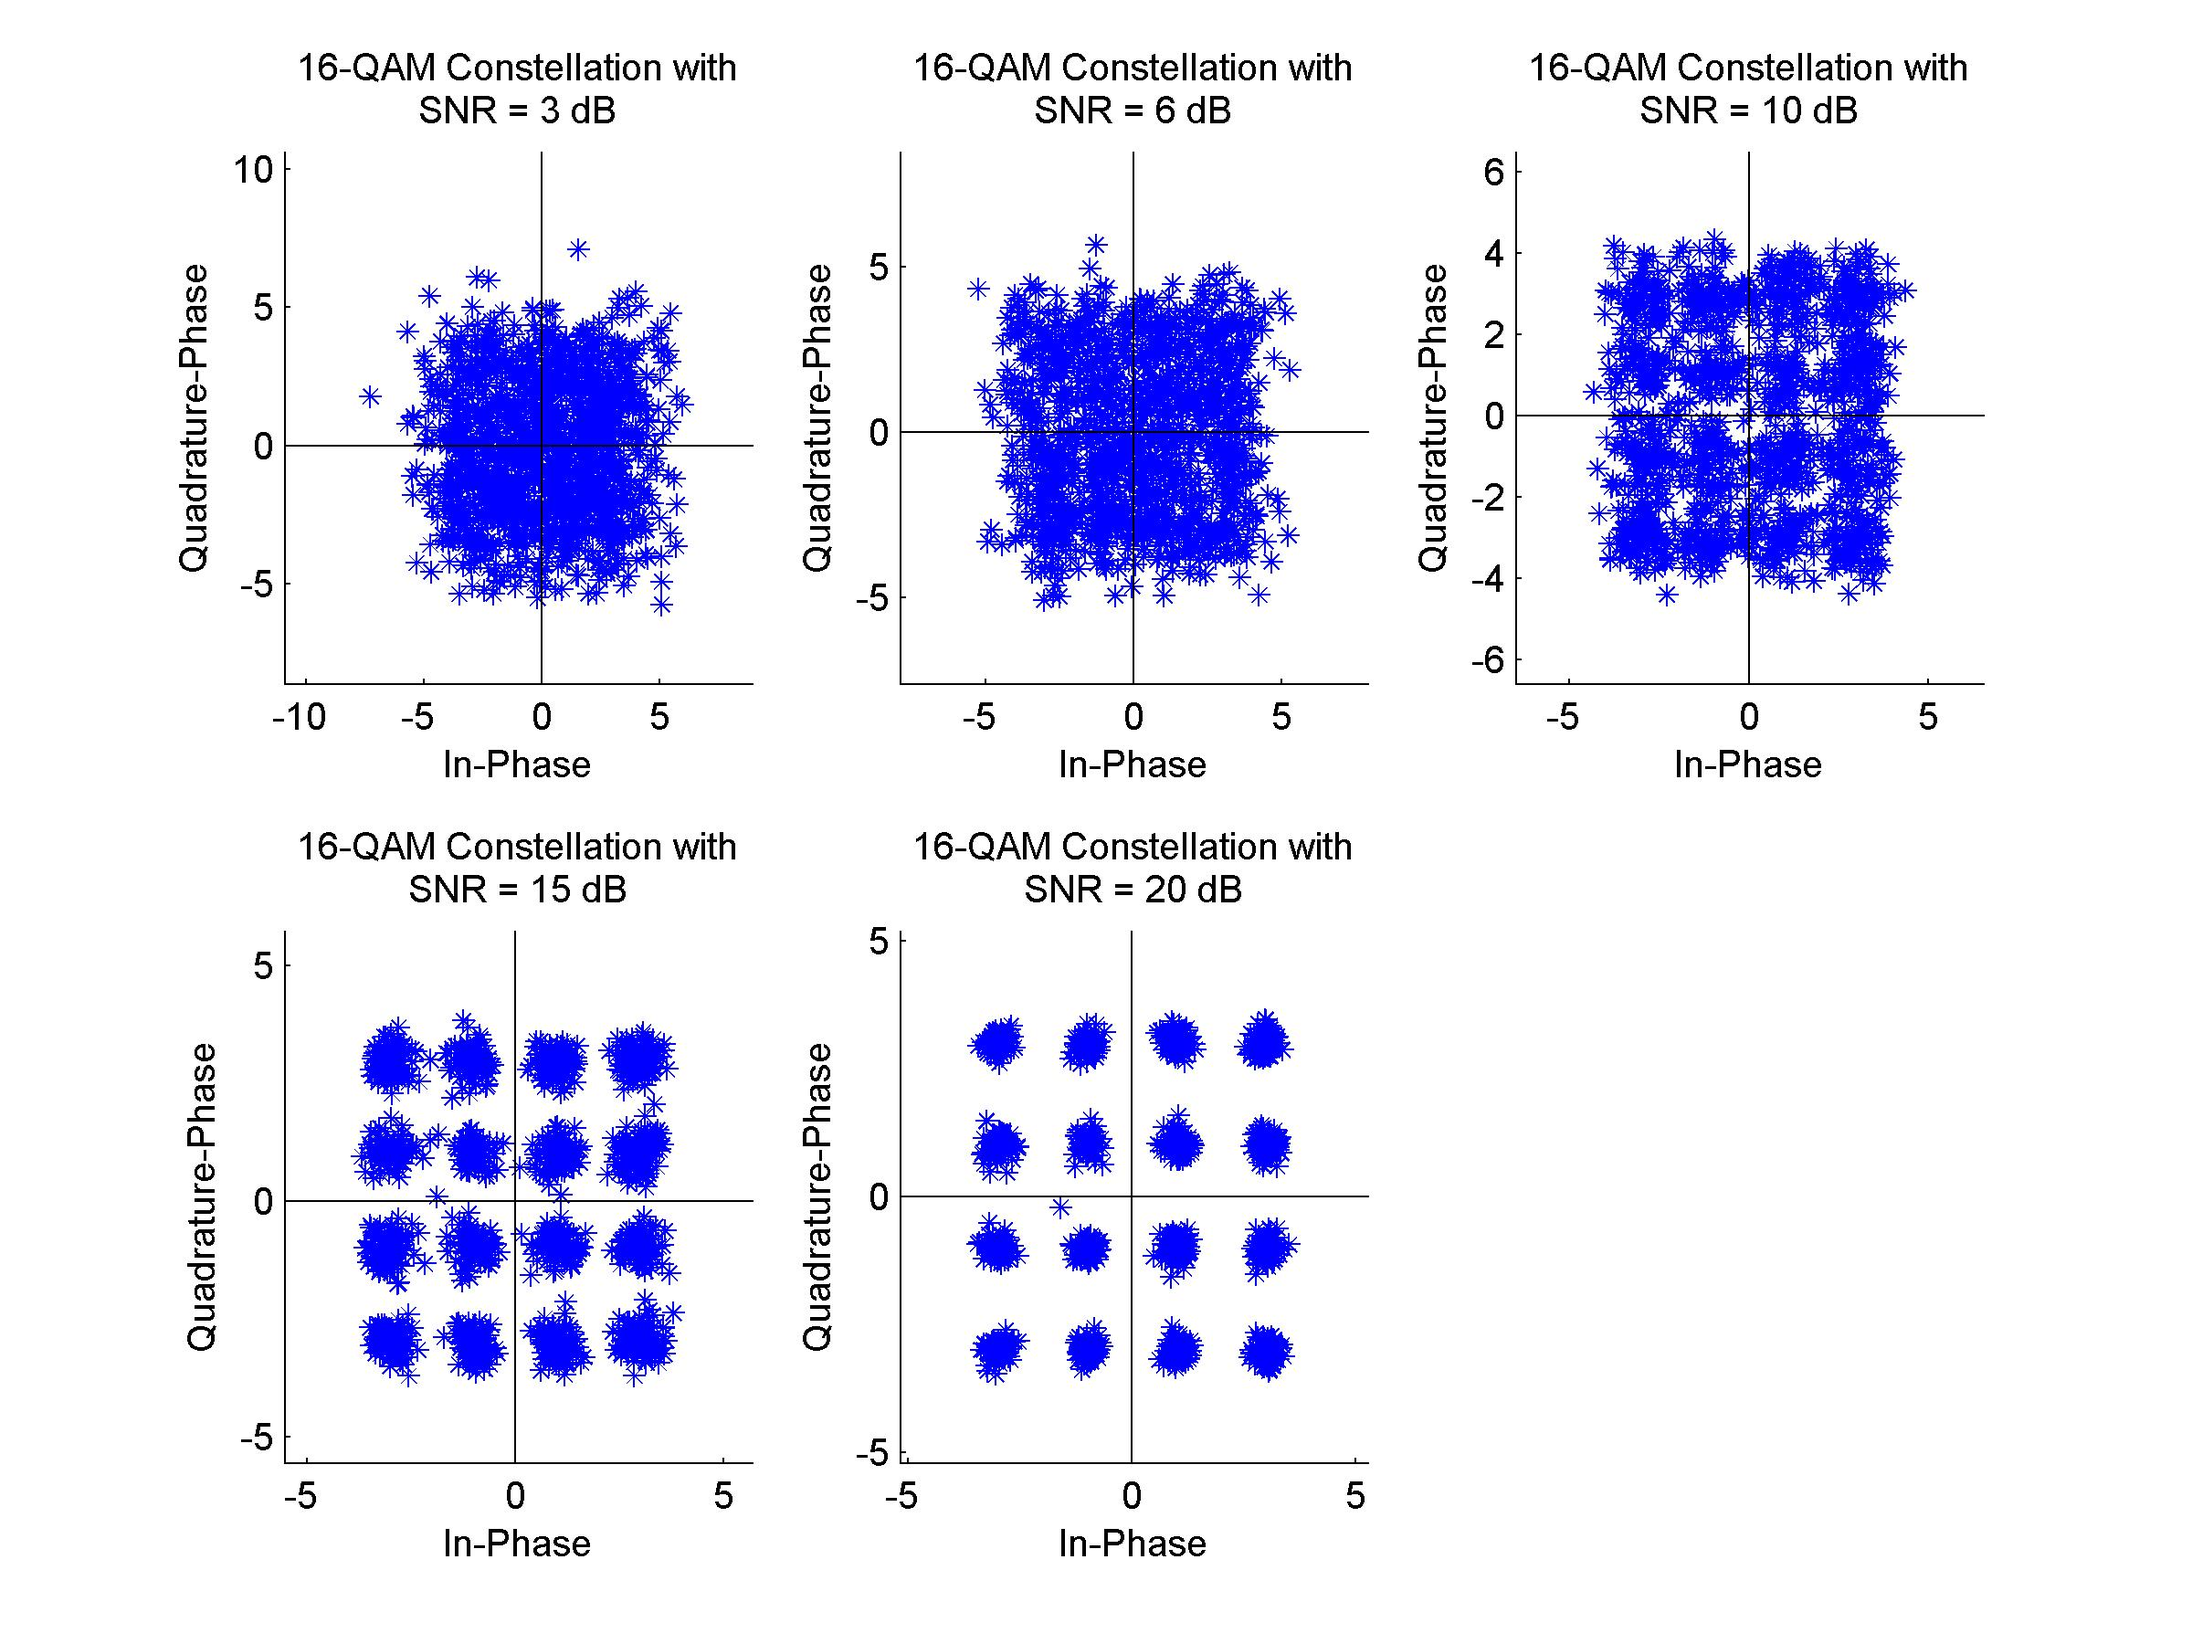
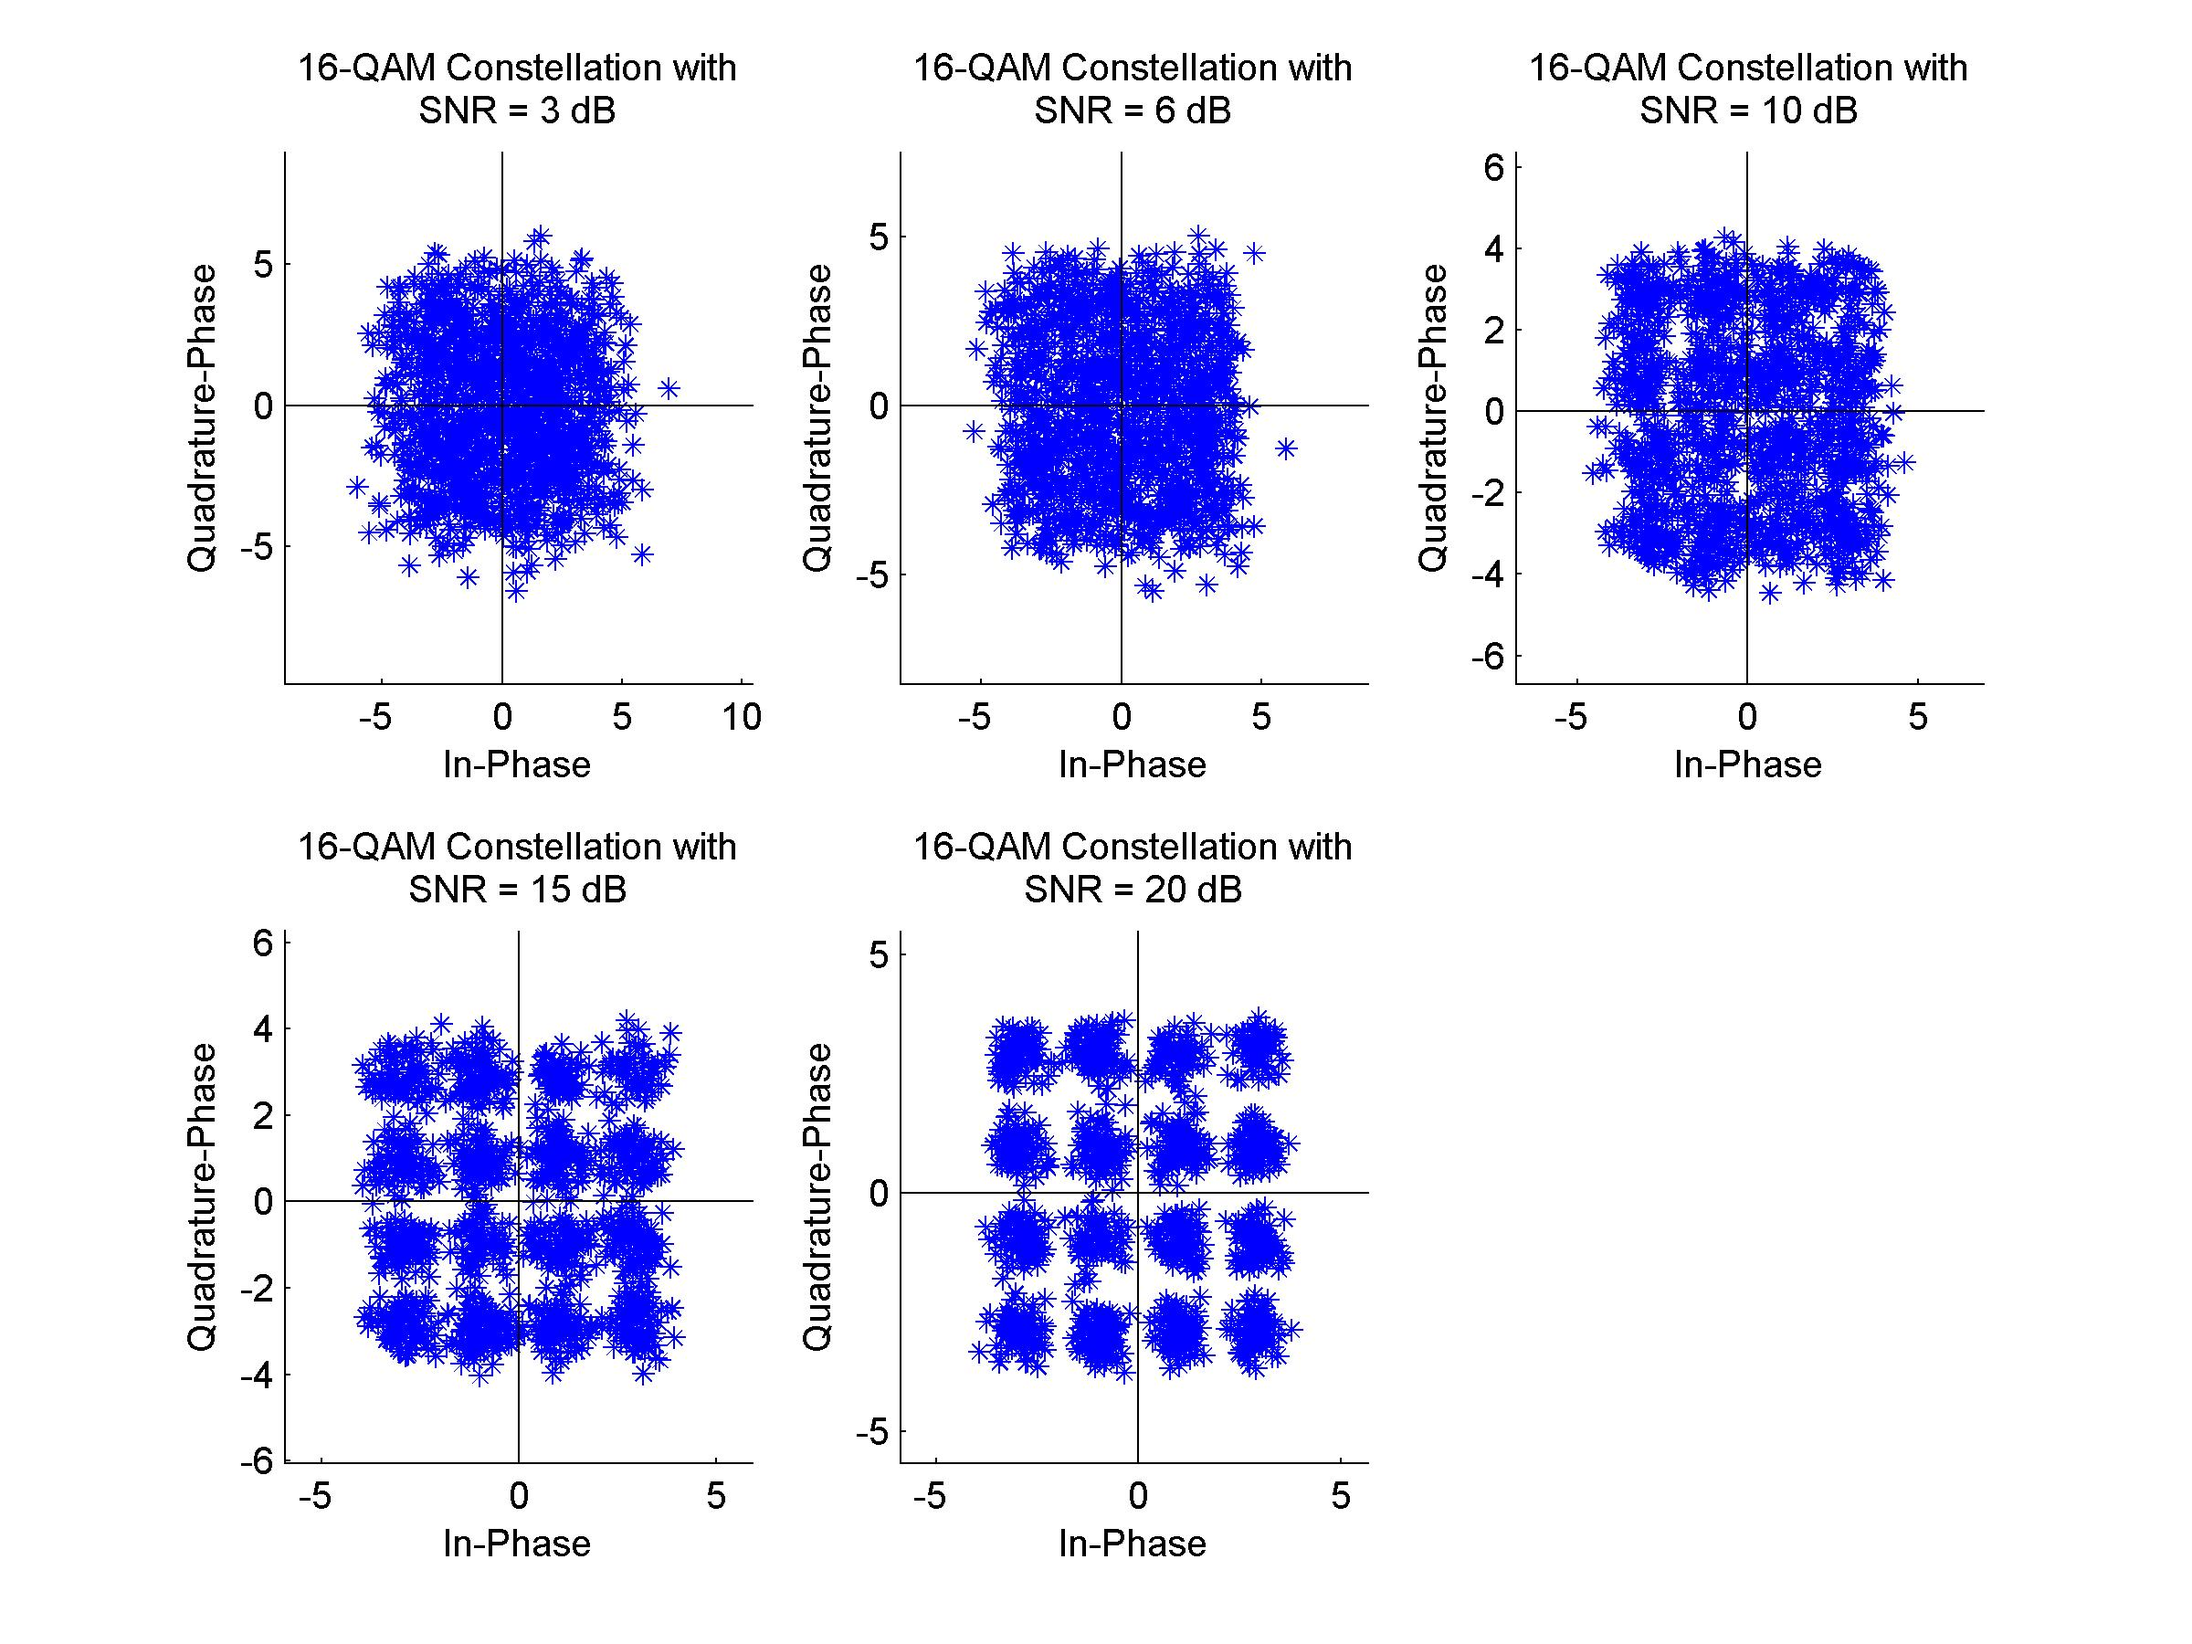
-

diff --git a/step4/step4_sim_QAM16.m b/step4/step4_sim_QAM16.m
@@ -4,9 +4,11 @@ clear all;
 clc;
 %Start by setting the initial variables
 overSampleSize = 4;
-overSampleSizeAnalog = 20; %80 times symbol period
+overSampleSizeAnalog = 80; %80 times symbol period
 rollOffFactor = 0.25;
 N= 5000; %number of bits generated
+t_analog = 0:1/overSampleSizeAnalog:N/4;
+t_digital = 0:1/overSampleSize:N/4;
 Ts = 1; %Symbol period
 S=10; %average signal power for 16-QAM
 B = rollOffFactor*(1/(2*Ts)) + 1/(2*Ts); %srrc pulse bandwidth
@@ -21,26 +23,38 @@ bits = random_bit_generator(N);  %random bit generation
 impulse_train_quad = impulse_train(overSampleSize,N/4,quadrature);
 impulse_train_inphase = impulse_train(overSampleSize,N/4,inphase);
 transmit = conv(impulse_train_inphase + j*impulse_train_quad,srrc,'same');
-
 %digital to analog conversion
-transmit_analog = ZeroHoldInterpolation(transmit,overSampleSizeAnalog);
+transmit_analog = ZeroHoldInterpolation(transmit,overSampleSizeAnalog/overSampleSize);
+figure(1)
+plot(t_digital(1:100),real(transmit(1:100)),'r');
+hold on
+plot(t_analog(1:100*overSampleSizeAnalog/overSampleSize),real(transmit_analog(1:100*overSampleSizeAnalog/overSampleSize)),'g');
 
 %anti aliasing filter
-filtered_transmit_analog = ButterworthFilter(4,0.8,transmit_analog); %fc at pi/4
-
+filtered_transmit_analog = ButterworthFilter(4,0.05,transmit_analog); %fc at pi/20
+figure(1)
+plot(t_analog(1:100*overSampleSizeAnalog/overSampleSize),real(filtered_transmit_analog(1:100*overSampleSizeAnalog/overSampleSize)),'-bx');
 %loop this section for the generation of BER vs SNR graphs and
 %constellation plots
 num = 1;
-f = figure;
+hold off
 for i=1:length(SNR)
  %pass the signals to be transmitted through awgn channel
     received_analog = awgn_complex_channel(filtered_transmit_analog,SNR(i),S);
-    
+    figure
+    plot(t_analog(1:100*overSampleSizeAnalog/overSampleSize),real(received_analog(1:100*overSampleSizeAnalog/overSampleSize)),'g');
+    hold on;
     %noise limiting filter
-    filtered_received_analog = ButterworthFilter(4,0.5,received_analog);
+    filtered_received_analog = ButterworthFilter(4,0.5,received_analog); %fc at pi/5
+    plot(t_analog(1:100*overSampleSizeAnalog/overSampleSize),real(filtered_received_analog(1:100*overSampleSizeAnalog/overSampleSize)),'r');
     %analog to digital converter -> sample 4 times each symbol period
-    received_digital = ZeroHoldDecimation(filtered_received_analog,20);
-    
+    received_digital = ZeroHoldDecimation(filtered_received_analog,overSampleSizeAnalog/overSampleSize,1);
+    hold off
+    figure
+    plot(t_digital(1:100),real(received_digital(1:100)),'bx')
+    hold on
+    plot(t_digital(1:100),real(transmit(1:100)),'r');
+    %stem(real(received_digital(1:100)),'ko');
     %pass the received signal through the matched filter for optimal
     %detection
     matched_output = conv(received_digital,srrc,'same');
@@ -48,7 +62,7 @@ for i=1:length(SNR)
      %pass the matched filter output through the sampler to obtain symbols
     %at each symbol period
     sampled = sampler(matched_output,overSampleSize,Ts);
-    
+    f=figure(3);
     %constellation plot
     if (SNR(i) == 3) || SNR(i) == 6 || SNR(i) == 10 || ...
             SNR(i) == 15 || SNR(i) == 20
@@ -69,13 +83,19 @@ for i=1:length(SNR)
     output_bits = QAM_16_demod(real(sampled),imag(sampled));
 
     %BER/SER calculation - drop the first symbol 
-    ser(i) = SER(bits(5:N),output_bits(5:N),4);
-    ber(i) = BER(bits(5:N),output_bits(5:N));
+    ser(i) = SER(bits(9:N-8),output_bits(9:N-8),4);
+    ber(i) = BER(bits(9:N-8),output_bits(9:N-8));
     %SER/BER theoretical calculation)
     a = 10^(EbN0(i)/10);
     ser_theo(i) = 3*qfunc(sqrt((4/5)*a))-(9/4)*qfunc(sqrt((4/5)*a))^2;
     ber_theo(i) = (1/4)*(3*qfunc(sqrt((4/5)*a))-(9/4)*qfunc(sqrt((4/5)*a))^2);
+    
+    
+
+
+    
 end
+
 % save the constellation plot
 print(f,'-djpeg','-r300','qam16Const');
 

diff --git a/step4/ZeroHoldInterpolation.m b/step4/ZeroHoldInterpolation.m
@@ -1,7 +1,8 @@
 function [data_interp] = ZeroHoldInterpolation(data,overSampleRate)
-
+data_interp = zeros(1,length(data));
 for i =1:length(data)
-    data_interp((i-1)*overSampleRate+1:i*overSampleRate) = data(i);
+   % data_interp((i-1)*overSampleRate+1:i*overSampleRate) = data((i-1)*overSampleRate+1);
+   data_interp((i-1)*overSampleRate+1:i*overSampleRate) = data(i);
 end
 
 end

diff --git a/step4/ZeroHoldDecimation.m b/step4/ZeroHoldDecimation.m
@@ -1,7 +1,6 @@
-function [output] = ZeroHoldDecimation(data,overSamplingRate)
-
-for i = 1:length(data)/overSamplingRate
-   output(i) = data((i-1)*overSamplingRate+floor(overSamplingRate/2)+1); 
+function [output] = ZeroHoldDecimation(data,overSamplingRate,delay)
+for i = 1+delay:length(data)/overSamplingRate
+   output(i-delay) = data((i-1)*overSamplingRate+1); 
 end
 
 end

diff --git a/step4/step4_sim_qpsk.m b/step4/step4_sim_qpsk.m
@@ -36,6 +36,7 @@ ser_theo = zeros(1,length(SNR));
 ber_EbN0 = zeros(1,length(SNR));
 f = figure;
 num = 1;
+
 for i=1:length(SNR)
    %pass the signals to be transmitted through awgn channel
     received_analog = awgn_complex_channel(filtered_transmit_analog,SNR(i),S);
